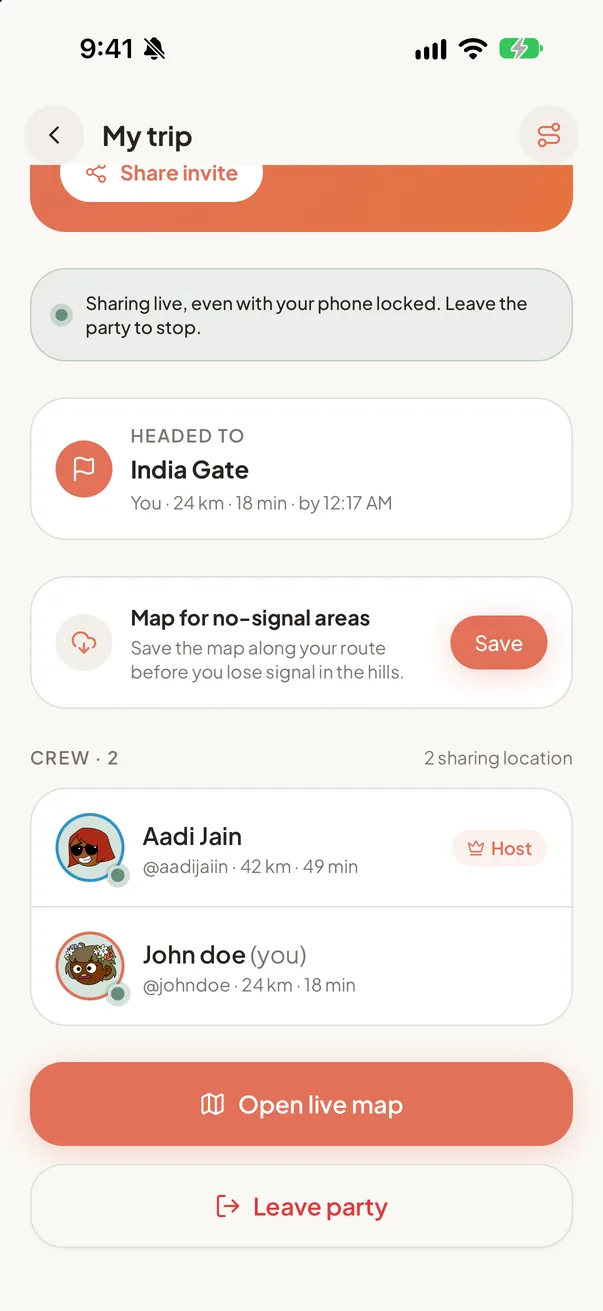
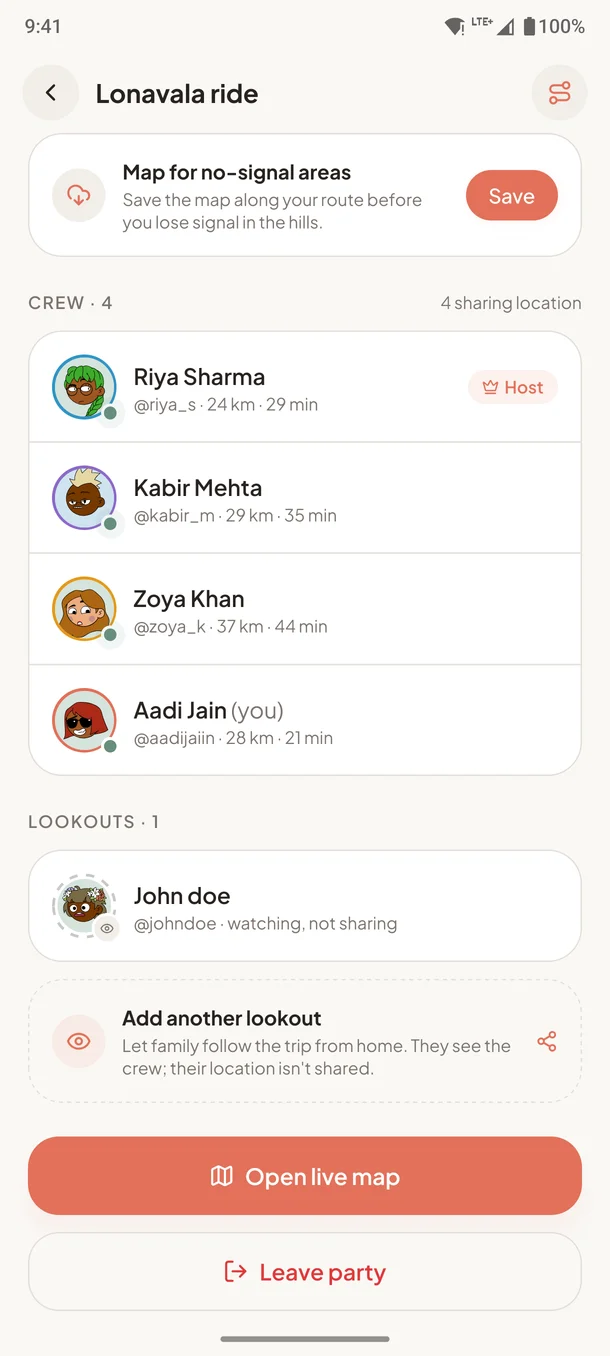
feat(web): advertise lookouts and retake screenshots on Android
New Lookouts section and feature card, a privacy promise and policy
wording for one-way sharing, and lookout invite links (?as=lookout) on
the invite page. Screenshots are retaken on a real Android phone and the
phone frames are larger.

diff --git a/web/src/app/page.jsx b/web/src/app/page.jsx
@@ -1,6 +1,8 @@
 import {
 	BatteryMedium,
 	Coffee,
+	Eye,
+	EyeOff,
 	Flag,
 	MapPin,
 	Route,
@@ -59,6 +61,11 @@ const FEATURES = [
 		body: 'See each person’s battery, and chalo tells you when someone has probably just lost signal.',
 	},
 	{
+		icon: Eye,
+		title: 'Lookouts for the folks at home',
+		body: 'Parents can follow the trip live without joining it. They see the crew; nobody sees them.',
+	},
+	{
 		icon: Route,
 		title: 'A recap of the trip',
 		body: 'When the party ends: everyone’s route on one map, kilometres covered, top speed and stops made.',
@@ -71,9 +78,28 @@ const STEPS = [
 	{title: 'Chalo', body: 'Everyone’s on the map until the party ends. Then sharing stops for all.'},
 ];
 
+const LOOKOUT_POINTS = [
+	{
+		icon: Eye,
+		title: 'The whole crew, live',
+		body: 'Everyone’s position, their route and ETA to the destination, updating as they drive.',
+	},
+	{
+		icon: Siren,
+		title: 'Only the alerts that matter',
+		body: 'SOS, arrivals and anyone falling behind. None of the chai-stop chatter.',
+	},
+	{
+		icon: EyeOff,
+		title: 'Nothing of theirs is shared',
+		body: 'A lookout never posts a location. The crew always sees who’s watching, and the host can remove a lookout.',
+	},
+];
+
 const PROMISES = [
 	'Your location is only shared with a party you’ve joined, and only while you’re in it.',
 	'Leave or end the party and sharing stops right away. Parties also end by themselves after 24 hours.',
+	'Lookouts never share their location, and everyone in the party can see who’s watching.',
 	'Route trails for the trip recap are deleted after 30 days.',
 	'No ads, and we don’t sell your data.',
 ];
@@ -134,7 +160,7 @@ export default function Home() {
 							<StoreButtons />
 						</div>
 						<div className="flex justify-center lg:justify-end">
-							<Phone src="/screens/map.webp" alt="The chalo live map with the crew and their ETAs" className="w-64 sm:w-72" priority />
+							<Phone src="/screens/map.webp" alt="The chalo live map with the crew and their ETAs" className="w-72 sm:w-80" priority />
 						</div>
 					</div>
 				</section>
@@ -163,9 +189,9 @@ export default function Home() {
 
 				<section className="mx-auto max-w-6xl px-4 py-20 sm:px-6">
 					<div className="grid items-center gap-14 lg:grid-cols-2">
-						<div className="flex justify-center gap-4">
-							<Phone src="/screens/lobby.webp" alt="A party lobby with the destination, ETA and the crew" className="w-44 sm:w-56" />
-							<Phone src="/screens/recap.webp" alt="A trip recap with everyone's route" className="mt-12 w-44 sm:w-56" />
+						<div className="flex justify-center gap-3 sm:gap-5">
+							<Phone src="/screens/lobby.webp" alt="A party lobby with the destination, ETA and the crew" className="w-[46%] max-w-72" />
+							<Phone src="/screens/recap.webp" alt="A trip recap with everyone's route" className="mt-12 w-[46%] max-w-72" />
 						</div>
 						<div>
 							<h2 className="text-3xl font-extrabold tracking-tight sm:text-4xl">Up and running in a minute</h2>
@@ -182,6 +208,53 @@ export default function Home() {
 									</li>
 								))}
 							</ol>
+						</div>
+					</div>
+				</section>
+
+				<section id="lookouts" className="scroll-mt-16 border-t border-border/60 bg-primary/5">
+					<div className="mx-auto grid max-w-6xl items-center gap-14 px-4 py-20 sm:px-6 lg:grid-cols-[1.1fr_0.9fr]">
+						<div>
+							<span className="inline-flex w-fit items-center gap-2 rounded-full bg-primary/10 px-3 py-1.5 text-xs font-bold uppercase tracking-widest text-primary">
+								<Eye className="size-3.5" />
+								New · Lookouts
+							</span>
+							<h2 className="mt-5 text-3xl font-extrabold tracking-tight sm:text-4xl">
+								Let the folks at home follow along
+							</h2>
+							<p className="mt-3 max-w-xl text-lg text-muted-foreground">
+								Add your parents as lookouts and they can watch the trip live, without being on it. It
+								only goes one way: they see the crew, and nobody sees them.
+							</p>
+							<ul className="mt-8 flex flex-col gap-5">
+								{LOOKOUT_POINTS.map(({icon: Icon, title, body}) => (
+									<li key={title} className="flex gap-4">
+										<span className="flex size-11 shrink-0 items-center justify-center rounded-2xl bg-card shadow-sm">
+											<Icon className="size-5 text-primary" />
+										</span>
+										<div>
+											<h3 className="font-bold">{title}</h3>
+											<p className="text-[15px] leading-relaxed text-muted-foreground">{body}</p>
+										</div>
+									</li>
+								))}
+							</ul>
+							<p className="mt-8 text-sm text-muted-foreground">
+								In the party lobby, tap <strong className="text-foreground">Add a lookout</strong> and send
+								the link. On their end it&apos;s one tap.
+							</p>
+						</div>
+						<div className="relative flex justify-center lg:justify-end">
+							<Phone src="/screens/lookout.webp" alt="A lookout following the crew on the live map" className="w-64 sm:w-80" />
+							<div className="absolute bottom-10 left-0 flex max-w-64 items-center gap-3 rounded-2xl border border-border bg-card/95 p-3 shadow-xl shadow-black/10 backdrop-blur sm:left-4 lg:-left-6">
+								<span className="flex size-9 shrink-0 items-center justify-center rounded-xl bg-primary/10">
+									<Eye className="size-4 text-primary" />
+								</span>
+								<div className="text-left">
+									<p className="text-sm font-bold leading-tight">Mom is watching Goa trip</p>
+									<p className="text-xs text-muted-foreground">Her location isn&apos;t shared.</p>
+								</div>
+							</div>
 						</div>
 					</div>
 				</section>
@@ -203,7 +276,7 @@ export default function Home() {
 						</div>
 						<ul className="grid gap-3 sm:grid-cols-2">
 							{PROMISES.map((p) => (
-								<li key={p} className="rounded-3xl bg-card p-5 text-[15px] leading-relaxed">
+								<li key={p} className="rounded-3xl bg-card p-5 text-[15px] leading-relaxed sm:last:odd:col-span-2">
 									{p}
 								</li>
 							))}

diff --git a/web/src/app/j/[code]/page.jsx b/web/src/app/j/[code]/page.jsx
@@ -10,8 +10,18 @@ function clean(raw) {
 		.slice(0, CODE_LENGTH);
 }
 
-export async function generateMetadata({params}) {
+export async function generateMetadata({params, searchParams}) {
 	const code = clean((await params).code);
+	if ((await searchParams).as === 'lookout') {
+		return {
+			title: 'Follow our trip on chalo',
+			description: 'See the crew live on one map. Your own location stays private.',
+			openGraph: {
+				title: 'Follow our trip on chalo',
+				description: 'Tap to watch the crew live on the map. Your location isn’t shared.',
+			},
+		};
+	}
 	return {
 		title: `Join my party on chalo · ${code}`,
 		description: 'Tap to join the party and see everyone on one live map.',
@@ -22,10 +32,14 @@ export async function generateMetadata({params}) {
 	};
 }
 
-/** Where invite links land: opens the app straight into the party, or shows the code to type in. */
-export default async function InvitePage({params}) {
+/**
+ * Where invite links land: opens the app straight into the party, or shows the code to type in.
+ * Lookout links (?as=lookout) invite someone to follow along without sharing their location.
+ */
+export default async function InvitePage({params, searchParams}) {
 	const code = clean((await params).code);
 	const valid = code.length === CODE_LENGTH;
+	const lookout = (await searchParams).as === 'lookout';
 
 	return (
 		<main className="flex min-h-screen flex-col items-center justify-center gap-8 bg-background px-4 py-16">
@@ -33,11 +47,15 @@ export default async function InvitePage({params}) {
 			<div className="flex w-full max-w-sm flex-col gap-6 rounded-3xl border border-border bg-card p-8 text-center shadow-xl shadow-black/5">
 				<div className="flex flex-col gap-2">
 					<p className="text-xs font-semibold uppercase tracking-widest text-primary">
-						You&apos;re invited
+						{lookout ? 'Be a lookout' : 'You’re invited'}
 					</p>
-					<h1 className="text-2xl font-extrabold text-foreground">Join the party on chalo</h1>
+					<h1 className="text-2xl font-extrabold text-foreground">
+						{lookout ? 'Follow the trip on chalo' : 'Join the party on chalo'}
+					</h1>
 					<p className="text-sm text-muted-foreground">
-						Everyone in the party shows up on one live map, so nobody gets lost on the way.
+						{lookout
+							? 'See the whole crew live on one map, and hear about arrivals and SOS. Your own location isn’t shared with anyone.'
+							: 'Everyone in the party shows up on one live map, so nobody gets lost on the way.'}
 					</p>
 				</div>
 
@@ -53,7 +71,7 @@ export default async function InvitePage({params}) {
 								</span>
 							))}
 						</div>
-						<OpenInApp code={code} />
+						<OpenInApp code={code} lookout={lookout} />
 					</>
 				) : (
 					<p className="text-sm text-muted-foreground">

diff --git a/web/src/app/privacy/page.jsx b/web/src/app/privacy/page.jsx
@@ -25,7 +25,8 @@ export default function PrivacyPage() {
 					<strong>Your location, only while you&apos;re in a party:</strong> position, accuracy, speed and
 					direction, plus your distance and ETA to the party&apos;s destination. If you allow
 					&ldquo;all the time&rdquo; location, this continues while your phone is locked, until you leave
-					the party or it ends. Outside a party, your location stays on your phone.
+					the party or it ends. Outside a party, your location stays on your phone. If you join a party
+					as a <strong>lookout</strong>, your location isn&apos;t shared at all.
 				</li>
 				<li>
 					<strong>A route trail for the trip recap:</strong> a point roughly every 100 metres while
@@ -48,8 +49,14 @@ export default function PrivacyPage() {
 			<h2>Who can see it</h2>
 			<ul>
 				<li>
-					Only the members of a party can see that party&apos;s locations, trails, pings and pins. Anyone
-					with the party code can join while the party is live, so share it only with people you trust.
+					Only the people currently in a party, including any lookouts following it, can see that
+					party&apos;s live locations and trails while it&apos;s on; trails stay visible to past members
+					for the trip recap. Anyone with the party code can join while the party is live, so share it
+					only with people you trust.
+				</li>
+				<li>
+					Everyone in a party can see who is watching as a lookout, and the host can remove a lookout
+					at any time.
 				</li>
 				<li>Your name, username and avatar are visible to people in parties with you.</li>
 				<li>We don&apos;t sell your data, show ads, or share your location with anyone else.</li>

diff --git a/web/src/app/j/[code]/OpenInApp.jsx b/web/src/app/j/[code]/OpenInApp.jsx
@@ -3,8 +3,8 @@
 import {useEffect, useState} from 'react';
 
 /** Tries the app right away; if it isn't installed, the page stays put with the code to copy. */
-export default function OpenInApp({code}) {
-	const appUrl = `chalo://join/${code}`;
+export default function OpenInApp({code, lookout = false}) {
+	const appUrl = `chalo://join/${code}${lookout ? '?as=lookout' : ''}`;
 	const [copied, setCopied] = useState(false);
 
 	useEffect(() => {
@@ -25,7 +25,7 @@ export default function OpenInApp({code}) {
 				href={appUrl}
 				className="rounded-2xl bg-primary px-4 py-3.5 font-bold text-primary-foreground shadow-lg shadow-primary/30 transition-opacity hover:opacity-90"
 			>
-				Open in chalo
+				{lookout ? 'Watch in chalo' : 'Open in chalo'}
 			</a>
 			<button
 				type="button"
@@ -35,7 +35,9 @@ export default function OpenInApp({code}) {
 				{copied ? 'Copied' : 'Copy code'}
 			</button>
 			<p className="text-xs text-muted-foreground">
-				Nothing happened? Install chalo, then tap the link again, or enter the code on the home screen.
+				{lookout
+					? 'Nothing happened? Install chalo, then tap the link again, or enter the code on the home screen and choose “Just watch”.'
+					: 'Nothing happened? Install chalo, then tap the link again, or enter the code on the home screen.'}
 			</p>
 		</div>
 	);

diff --git a/web/src/components/site/Phone.jsx b/web/src/components/site/Phone.jsx
@@ -1,16 +1,16 @@
 import Image from 'next/image';
 import {cn} from '@/lib/utils';
 
-/** A real screenshot of the app in a simple phone outline. Screens are 1206×2622 (iPhone). */
+/** A real screenshot of the app in a simple phone outline. Screens are 1220×2712 (Android). */
 export function Phone({src, alt, className, priority = false}) {
 	return (
 		<div
 			className={cn(
-				'relative aspect-[1206/2622] overflow-hidden rounded-[2.6rem] border-[7px] border-foreground/90 bg-card shadow-2xl shadow-black/20 dark:border-white/15',
+				'relative aspect-[1220/2712] shrink-0 overflow-hidden rounded-[2.4rem] border-[6px] border-foreground/90 bg-card shadow-2xl shadow-black/20 dark:border-white/15',
 				className,
 			)}
 		>
-			<Image src={src} alt={alt} fill sizes="(min-width: 1024px) 320px, 70vw" className="object-cover" priority={priority} />
+			<Image src={src} alt={alt} fill sizes="(min-width: 1024px) 340px, 60vw" className="object-cover" priority={priority} />
 		</div>
 	);
 }
